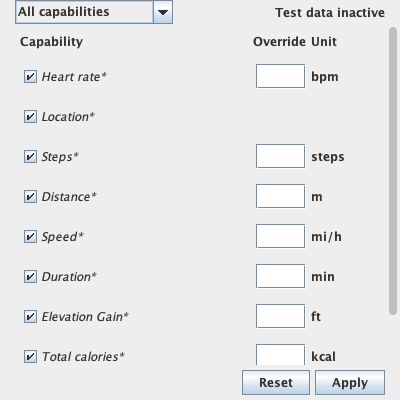
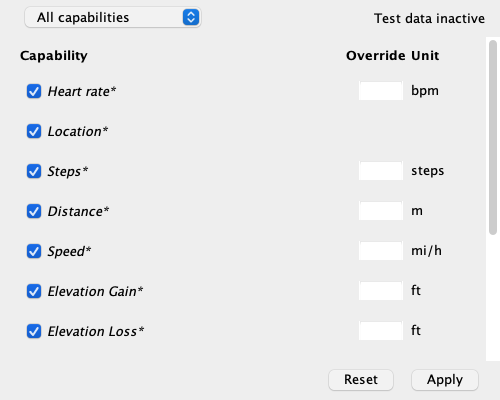
Show an event triggers dropdown menu next to capabilities dropdown
Send an adb command to trigger events when the items on the menu are selected

Bug: 319602919
Bug: 319603617
Test: Unit tests

diff --git a/wear-whs/testSrc/com/android/tools/idea/wearwhs/view/WearHealthServicesToolWindowTest.kt b/wear-whs/testSrc/com/android/tools/idea/wearwhs/view/WearHealthServicesToolWindowTest.kt
@@ -18,11 +18,14 @@ package com.android.tools.idea.wearwhs.view
 import com.android.testutils.ImageDiffUtil
 import com.android.testutils.TestUtils
 import com.android.testutils.waitForCondition
+import com.android.tools.adtui.stdui.menu.CommonDropDownButton
 import com.android.tools.adtui.swing.FakeUi
 import com.android.tools.adtui.swing.findDescendant
 import com.android.tools.idea.testing.AndroidProjectRule
+import com.android.tools.idea.wearwhs.EVENT_TRIGGER_GROUPS
 import com.android.tools.idea.wearwhs.WHS_CAPABILITIES
 import com.android.tools.idea.wearwhs.communication.FakeDeviceManager
+import com.google.common.truth.Truth.assertThat
 import com.intellij.openapi.util.Disposer
 import com.intellij.testFramework.EdtRule
 import com.intellij.testFramework.RunsInEdt
@@ -115,9 +118,26 @@ class WearHealthServicesToolWindowTest {
       maxPercentDifferent = 4.0)
   }
 
+  @Test
+  fun `test panel displays the dropdown for event triggers`() = runBlocking {
+    val fakeUi = FakeUi(toolWindow)
+    val dropDownButton = fakeUi.waitForDescendant<CommonDropDownButton>()
+    assertThat(dropDownButton).isNotNull()
+    assertThat(dropDownButton.action.childrenActions).hasSize(EVENT_TRIGGER_GROUPS.size)
+    assertThat(dropDownButton.action.childrenActions[0].childrenActions).hasSize(EVENT_TRIGGER_GROUPS[0].eventTriggers.size)
+    assertThat(dropDownButton.action.childrenActions[1].childrenActions).hasSize(EVENT_TRIGGER_GROUPS[1].eventTriggers.size)
+  }
+
+  private fun FakeUi.waitForCheckbox(text: String, selected: Boolean) = waitForDescendant<JCheckBox> {
+    it.text.contains(text) && it.isSelected == selected
+  }
+
   // The UI loads on asynchronous coroutine, we need to wait
-  private fun FakeUi.waitForCheckbox(text: String, selected: Boolean) = waitForCondition(10, TimeUnit.SECONDS) {
-    root.findDescendant<JCheckBox> { it.text.contains(text) && it.isSelected == selected } != null
+  private inline fun <reified T> FakeUi.waitForDescendant(crossinline predicate: (T) -> Boolean = { true }): T {
+    waitForCondition(1, TimeUnit.SECONDS) {
+      root.findDescendant(predicate) != null
+    }
+    return root.findDescendant(predicate)!!
   }
 
   private suspend fun <T> StateFlow<T>.waitForValue(value: T, timeout: Long = 1000) {

diff --git a/wear-whs/src/com/android/tools/idea/wearwhs/EventTrigger.kt b/wear-whs/src/com/android/tools/idea/wearwhs/EventTrigger.kt
@@ -1,0 +1,67 @@
+/*
+ * Copyright (C) 2024 The Android Open Source Project
+ *
+ * Licensed under the Apache License, Version 2.0 (the "License");
+ * you may not use this file except in compliance with the License.
+ * You may obtain a copy of the License at
+ *
+ *      http://www.apache.org/licenses/LICENSE-2.0
+ *
+ * Unless required by applicable law or agreed to in writing, software
+ * distributed under the License is distributed on an "AS IS" BASIS,
+ * WITHOUT WARRANTIES OR CONDITIONS OF ANY KIND, either express or implied.
+ * See the License for the specific language governing permissions and
+ * limitations under the License.
+ */
+package com.android.tools.idea.wearwhs
+
+import com.android.tools.idea.wearwhs.WearWhsBundle.message
+
+/**
+ * Data class representing WHS event triggers such as User Asleep or exercise paused. [eventKey] is the
+ * key for this data type in WHS, [eventLabel] is the user displayed label of the trigger.
+ */
+data class EventTrigger(
+  val eventKey: String,
+  val eventLabel: String,
+)
+
+/**
+ * Data class representing a group of WHS event triggers, as displayed in the UI.
+ */
+data class EventTriggerGroup(
+  val eventGroupLabel: String,
+  val eventTriggers: List<EventTrigger>
+)
+
+/**
+ * List of default event trigger groups, displayed in the UI.
+ */
+val EVENT_TRIGGER_GROUPS = listOf(
+  EventTriggerGroup(
+    eventGroupLabel = message("wear.whs.event.trigger.auto.pause.resume.group"),
+    eventTriggers = listOf(
+      EventTrigger(
+        eventKey = "whs.AUTO_PAUSE_DETECTED",
+        eventLabel = message("wear.whs.event.trigger.auto.pause")
+      ),
+      EventTrigger(
+        eventKey = "whs.AUTO_RESUME_DETECTED",
+        eventLabel = message("wear.whs.event.trigger.auto.resume")
+      )
+    )
+  ),
+  EventTriggerGroup(
+    eventGroupLabel = message("wear.whs.event.trigger.sleep.group"),
+    eventTriggers = listOf(
+      EventTrigger(
+        eventKey = "whs.START_SLEEPING",
+        eventLabel = message("wear.whs.event.trigger.asleep")
+      ),
+      EventTrigger(
+        eventKey = "whs.STOP_SLEEPING",
+        eventLabel = message("wear.whs.event.trigger.awake")
+      ),
+    )
+  )
+)

diff --git a/wear-whs/src/com/android/tools/idea/wearwhs/view/WearHealthServicesToolWindow.kt b/wear-whs/src/com/android/tools/idea/wearwhs/view/WearHealthServicesToolWindow.kt
@@ -15,13 +15,17 @@
  */
 package com.android.tools.idea.wearwhs.view
 
+import com.android.tools.adtui.model.stdui.CommonAction
 import com.android.tools.adtui.stdui.StandardColors
+import com.android.tools.adtui.stdui.menu.CommonDropDownButton
 import com.android.tools.idea.concurrency.AndroidCoroutineScope
 import com.android.tools.idea.concurrency.AndroidDispatchers.uiThread
 import com.android.tools.idea.concurrency.AndroidDispatchers.workerThread
+import com.android.tools.idea.wearwhs.EVENT_TRIGGER_GROUPS
 import com.android.tools.idea.wearwhs.WearWhsBundle.message
 import com.android.tools.idea.wearwhs.WhsCapability
 import com.intellij.codeInsight.hint.HintUtil.createWarningLabel
+import com.intellij.icons.AllIcons
 import com.intellij.openapi.Disposable
 import com.intellij.openapi.diagnostic.Logger
 import com.intellij.openapi.ui.ComboBox
@@ -122,7 +126,27 @@ internal class WearHealthServicesToolWindow(private val stateManager: WearHealth
       stateManager.getPreset().onEach {
         capabilitiesComboBox.selectedItem = it
       }.launchIn(uiScope)
-      add(capabilitiesComboBox, BorderLayout.WEST)
+      val eventTriggersDropDownButton = CommonDropDownButton(
+        CommonAction("", AllIcons.Actions.More).apply {
+          toolTipText = message("wear.whs.panel.trigger.events")
+          addChildrenActions(
+            EVENT_TRIGGER_GROUPS.map { eventTriggerGroup ->
+              CommonAction(eventTriggerGroup.eventGroupLabel, null).apply {
+                addChildrenActions(eventTriggerGroup.eventTriggers.map { eventTrigger ->
+                  CommonAction(eventTrigger.eventLabel, null) {
+                    workerScope.launch {
+                      stateManager.triggerEvent(eventTrigger)
+                    }
+                  }
+                })
+              }
+            }
+          )
+        })
+      add(JPanel(FlowLayout(FlowLayout.LEADING)).apply {
+        add(capabilitiesComboBox)
+        add(eventTriggersDropDownButton)
+      }, BorderLayout.WEST)
       add(JLabel(message("wear.whs.panel.test.data.inactive")).apply {
         icon = StudioIcons.Common.INFO
         stateManager.getOngoingExercise().onEach {

diff --git a/wear-whs/src/com/android/tools/idea/wearwhs/communication/ContentProviderDeviceManager.kt b/wear-whs/src/com/android/tools/idea/wearwhs/communication/ContentProviderDeviceManager.kt
@@ -18,10 +18,13 @@ package com.android.tools.idea.wearwhs.communication
 import com.android.adblib.AdbSession
 import com.android.adblib.DeviceSelector
 import com.android.adblib.shellAsText
+import com.android.tools.idea.wearwhs.EventTrigger
 import com.android.tools.idea.wearwhs.WHS_CAPABILITIES
 import com.android.tools.idea.wearwhs.WhsCapability
 import com.android.tools.idea.wearwhs.WhsDataType
+import com.intellij.openapi.diagnostic.Logger
 
+const val whsPackage: String = "com.google.android.wearable.healthservices"
 const val whsUri: String = "content://com.google.android.wearable.healthservices.dev.synthetic/synthetic_config"
 
 /**
@@ -32,6 +35,7 @@ const val whsUri: String = "content://com.google.android.wearable.healthservices
  */
 internal class ContentProviderDeviceManager(private val adbSession: AdbSession, private var capabilities: List<WhsCapability> = WHS_CAPABILITIES) : WearHealthServicesDeviceManager {
   private var serialNumber: String? = null
+  private val logger = Logger.getInstance(ContentProviderDeviceManager::class.java)
 
   // TODO(b/309608749): Implement loadCapabilities method
   override suspend fun loadCapabilities() = capabilities
@@ -94,5 +98,17 @@ internal class ContentProviderDeviceManager(private val adbSession: AdbSession, 
     }
     adbSession.deviceServices.shellAsText(device, contentUpdateCommand)
   }
-}
 
+  override suspend fun triggerEvent(eventTrigger: EventTrigger) {
+    if (serialNumber == null) {
+      logger.warn(IllegalStateException("Serial number not set"))
+      return
+    }
+
+    val device = DeviceSelector.fromSerialNumber(serialNumber!!)
+    adbSession.deviceServices.shellAsText(device, triggerEventCommand(eventTrigger))
+  }
+
+  private fun triggerEventCommand(eventTrigger: EventTrigger) =
+    "am broadcast -a \"${eventTrigger.eventKey}\" $whsPackage"
+}

diff --git a/wear-whs/testSrc/com/android/tools/idea/wearwhs/communication/DeviceManagerTest.kt b/wear-whs/testSrc/com/android/tools/idea/wearwhs/communication/DeviceManagerTest.kt
@@ -17,11 +17,13 @@ package com.android.tools.idea.wearwhs.communication
 
 import com.android.adblib.DeviceSelector
 import com.android.adblib.testing.FakeAdbSession
+import com.android.tools.idea.wearwhs.EventTrigger
 import com.android.tools.idea.wearwhs.WhsCapability
 import com.android.tools.idea.wearwhs.WhsDataType
 import junit.framework.TestCase.assertEquals
 import kotlinx.coroutines.ExperimentalCoroutinesApi
 import kotlinx.coroutines.launch
+import kotlinx.coroutines.runBlocking
 import kotlinx.coroutines.test.runTest
 import org.junit.Before
 import org.junit.Test
@@ -374,5 +376,19 @@ class DeviceManagerTest {
   fun `Override steps per minute`() {
     assertOverrideSendsAdbCommand(WhsDataType.STEPS_PER_MINUTE, 25, adbCommandSetStepsPerMinuteTo25)
     assertOverrideSendsAdbCommand(WhsDataType.STEPS_PER_MINUTE, null, adbCommandClearStepsPerMinute)
+  }
+
+  @Test
+  fun `trigger auto pause event`() = runBlocking {
+    assertDeviceManagerFunctionSendsAdbCommand(
+      { deviceManager -> deviceManager.triggerEvent(EventTrigger("whs.AUTO_PAUSE_DETECTED", "label")) },
+      "am broadcast -a \"whs.AUTO_PAUSE_DETECTED\" com.google.android.wearable.healthservices")
+  }
+
+  @Test
+  fun `trigger golf shot event`() = runBlocking {
+    assertDeviceManagerFunctionSendsAdbCommand(
+      { deviceManager -> deviceManager.triggerEvent(EventTrigger("whs.GOLF_SHOT", "label")) },
+      "am broadcast -a \"whs.GOLF_SHOT\" com.google.android.wearable.healthservices")
   }
 }

diff --git a/wear-whs/testSrc/com/android/tools/idea/wearwhs/communication/FakeDeviceManager.kt b/wear-whs/testSrc/com/android/tools/idea/wearwhs/communication/FakeDeviceManager.kt
@@ -15,6 +15,7 @@
  */
 package com.android.tools.idea.wearwhs.communication
 
+import com.android.tools.idea.wearwhs.EventTrigger
 import com.android.tools.idea.wearwhs.WHS_CAPABILITIES
 import com.android.tools.idea.wearwhs.WhsCapability
 import kotlinx.coroutines.delay
@@ -27,6 +28,7 @@ private const val DELAY_MS = 100L
 internal class FakeDeviceManager(
   internal val capabilities: List<WhsCapability> = WHS_CAPABILITIES) : WearHealthServicesDeviceManager {
   internal var failState = false
+  internal val triggeredEvents = mutableListOf<EventTrigger>()
   private val onDeviceStates = capabilities.associateWith { OnDeviceCapabilityState(false, null) }
 
   override suspend fun loadCapabilities() = if (failState) {
@@ -78,4 +80,8 @@ internal class FakeDeviceManager(
   }
 
   override fun setSerialNumber(serialNumber: String) {}
+
+  override suspend fun triggerEvent(eventTrigger: EventTrigger) {
+    triggeredEvents.add(eventTrigger)
+  }
 }

diff --git a/wear-whs/src/com/android/tools/idea/wearwhs/view/WearHealthServicesToolWindowStateManagerImpl.kt b/wear-whs/src/com/android/tools/idea/wearwhs/view/WearHealthServicesToolWindowStateManagerImpl.kt
@@ -16,6 +16,7 @@
 package com.android.tools.idea.wearwhs.view
 
 import com.android.tools.idea.concurrency.AndroidCoroutineScope
+import com.android.tools.idea.wearwhs.EventTrigger
 import com.android.tools.idea.wearwhs.WhsCapability
 import com.android.tools.idea.wearwhs.communication.ConnectionLostException
 import com.android.tools.idea.wearwhs.communication.WearHealthServicesDeviceManager
@@ -69,6 +70,9 @@ internal class WearHealthServicesToolWindowStateManagerImpl(
   override suspend fun isWhsVersionSupported(): Boolean = true
 
   override fun getCapabilitiesList(): StateFlow<List<WhsCapability>> = capabilitiesList.asStateFlow()
+
+  // TODO(b/309609475): Check the actual WHS version using the device manager
+  override suspend fun triggerEvent(eventTrigger: EventTrigger) {}
 
   override fun getPreset(): StateFlow<Preset> = currentPreset.asStateFlow()
 

diff --git a/wear-whs/src/com/android/tools/idea/wearwhs/view/WearHealthServicesToolWindowStateManager.kt b/wear-whs/src/com/android/tools/idea/wearwhs/view/WearHealthServicesToolWindowStateManager.kt
@@ -16,6 +16,7 @@
 package com.android.tools.idea.wearwhs.view
 
 import com.android.tools.idea.wearwhs.BUNDLE_NAME
+import com.android.tools.idea.wearwhs.EventTrigger
 import com.android.tools.idea.wearwhs.WearWhsBundle.message
 import com.android.tools.idea.wearwhs.WhsCapability
 import com.android.tools.idea.wearwhs.view.Preset.ALL
@@ -84,6 +85,11 @@ internal interface WearHealthServicesToolWindowStateManager {
    * ongoing exercise on the device, false otherwise.
    */
   fun getOngoingExercise(): StateFlow<Boolean>
+
+  /**
+   * Triggers given event on the device.
+   */
+  suspend fun triggerEvent(eventTrigger: EventTrigger)
 
   /**
    * Used to get/set the serial number of the currently running emulator.

diff --git a/wear-whs/src/com/android/tools/idea/wearwhs/communication/WearHealthServicesDeviceManager.kt b/wear-whs/src/com/android/tools/idea/wearwhs/communication/WearHealthServicesDeviceManager.kt
@@ -15,6 +15,7 @@
  */
 package com.android.tools.idea.wearwhs.communication
 
+import com.android.tools.idea.wearwhs.EventTrigger
 import com.android.tools.idea.wearwhs.WhsCapability
 
 /**
@@ -59,6 +60,7 @@ internal interface WearHealthServicesDeviceManager {
    * Sets the serial number of the emulator to connect.
    */
   fun setSerialNumber(serialNumber: String)
+  suspend fun triggerEvent(eventTrigger: EventTrigger)
 }
 
 internal data class OnDeviceCapabilityState(
